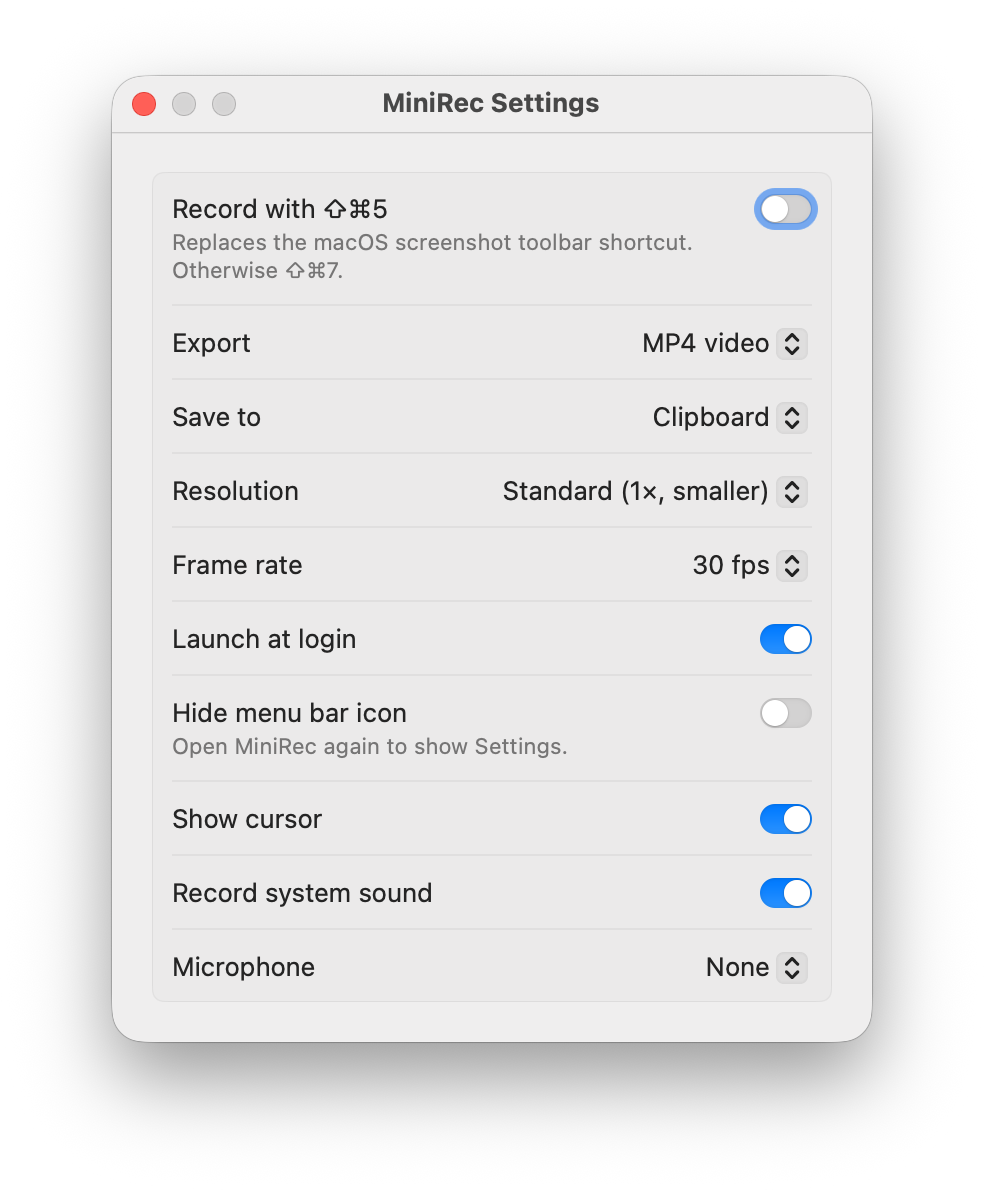
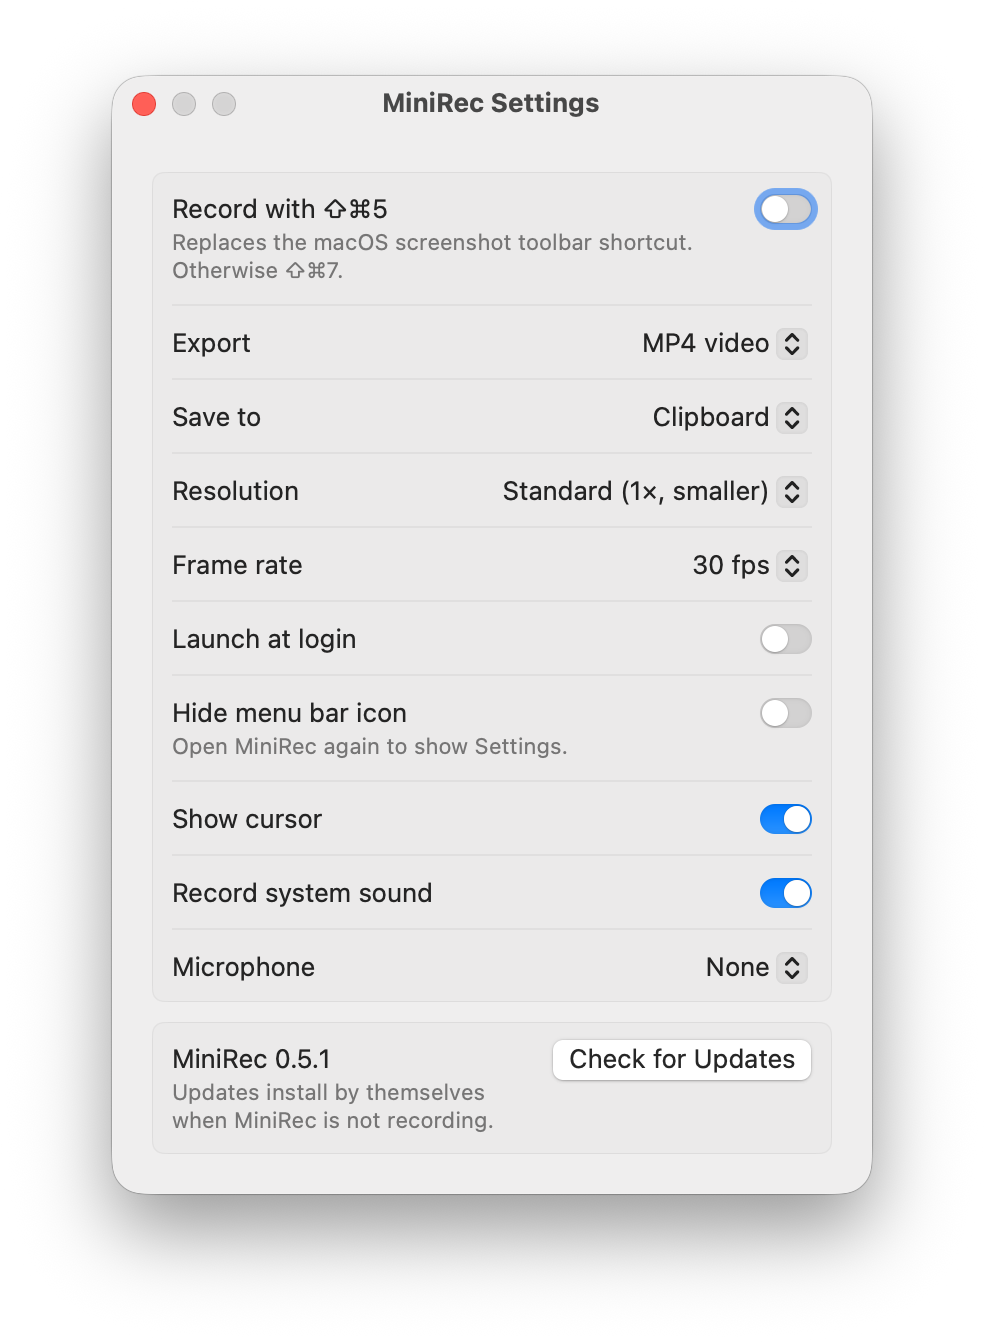
Add Check for Updates to the Settings window
With the menu bar icon hidden, Settings was the only window left and
it had no way to check for updates. Its new last section shows the
version and a Check for Updates button that runs the same check as
the menu item.

Amp-Thread-ID: https://ampcode.com/threads/T-01a1d944-efae-70bb-8fdd-b2ccf76d1970

diff --git a/Sources/MiniRec/Settings.swift b/Sources/MiniRec/Settings.swift
@@ -63,6 +63,8 @@ struct Settings {
 }
 
 struct SettingsView: View {
+    /// Settings must offer this too, because the menu bar icon can be hidden.
+    let checkForUpdates: () -> Void
     @AppStorage("format") private var format = Settings.Format.mp4.rawValue
     @AppStorage("destination") private var destination = Settings.Destination.clipboard.rawValue
     @AppStorage("folderPath") private var folderPath = ""
@@ -133,6 +135,14 @@ struct SettingsView: View {
             Picker("Microphone", selection: $microphoneID) {
                 Text("None").tag("")
                 ForEach(microphones, id: \.uniqueID) { Text($0.localizedName).tag($0.uniqueID) }
+            }
+            Section {
+                LabeledContent {
+                    Button("Check for Updates", action: checkForUpdates)
+                } label: {
+                    Text("MiniRec \(Updater.currentVersion)")
+                    Text("Updates install by themselves when MiniRec is not recording.")
+                }
             }
         }
         .formStyle(.grouped)

diff --git a/Sources/MiniRec/main.swift b/Sources/MiniRec/main.swift
@@ -228,7 +228,7 @@ final class AppDelegate: NSObject, NSApplicationDelegate {
 
     @objc private func openSettings() {
         if settingsWindow == nil {
-            let window = NSWindow(contentViewController: NSHostingController(rootView: SettingsView()))
+            let window = NSWindow(contentViewController: NSHostingController(rootView: SettingsView { [weak self] in self?.checkForUpdates() }))
             window.title = "MiniRec Settings"
             window.styleMask = [.titled, .closable]
             window.isReleasedWhenClosed = false

diff --git a/README.md b/README.md
@@ -63,6 +63,8 @@ Click the menu bar icon → **Settings…**, or open MiniRec again while it runs
 
 **Resolution** is 1× by default for small files. Choose **Retina** for full detail. Recordings are kept in `~/Movies/MiniRec`, unless you choose a folder.
 
+The bottom of Settings shows your version and a **Check for Updates** button, which works even when the menu bar icon is hidden.
+
 ## FAQ
 
 **Can my agent read an MP4?** Agents that read video can take the MP4 as it is. If yours reads only images, select **Frames** in the toolbar, and MiniRec copies JPEG frames instead.
